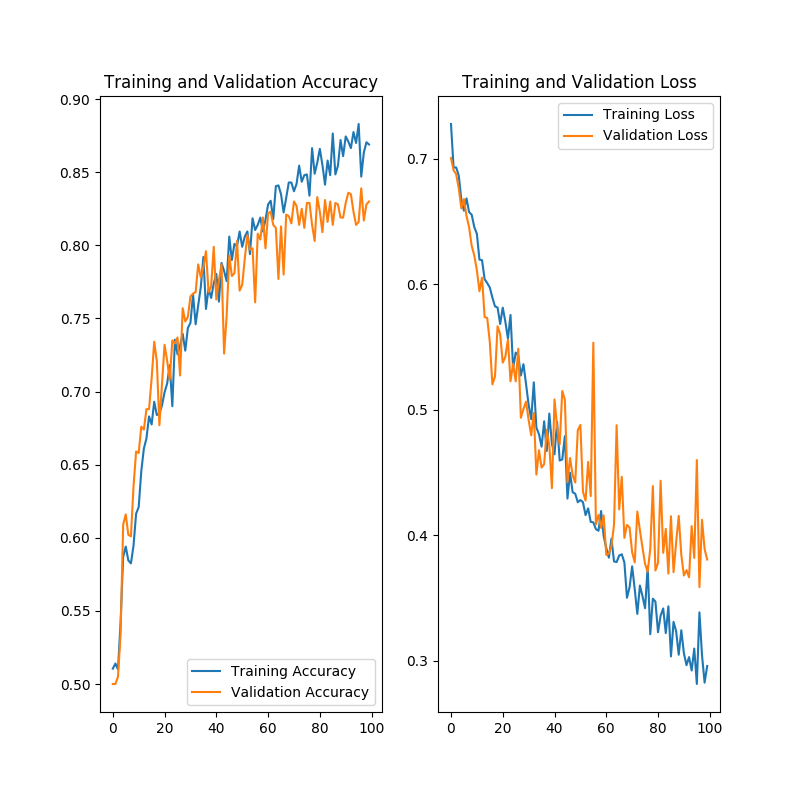
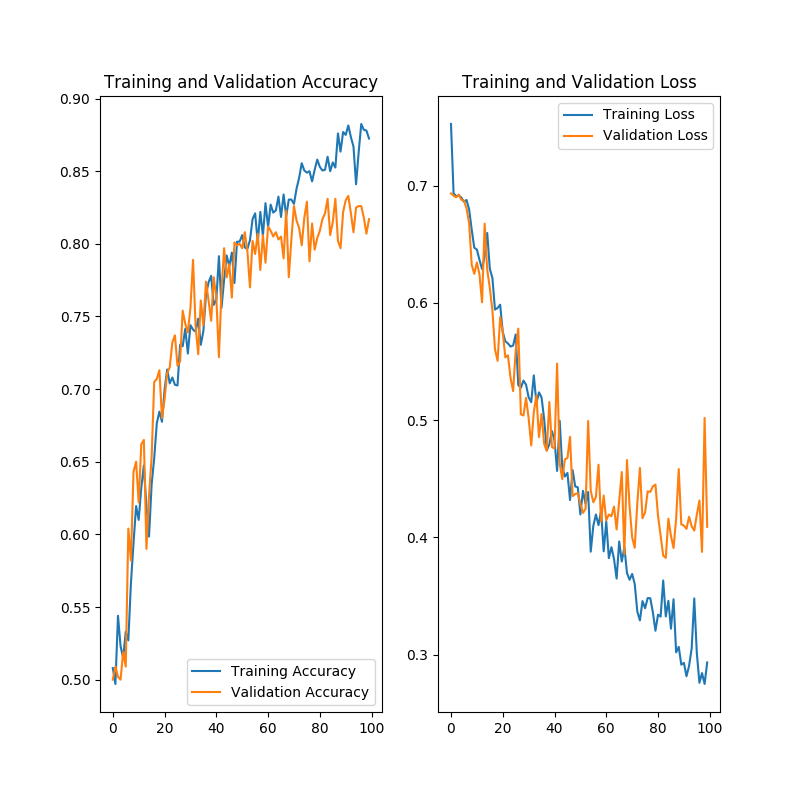
Added some stuff

diff --git a/Cnns/dogs_vs_cats.py b/Cnns/dogs_vs_cats.py
@@ -99,6 +99,27 @@ model = tf.keras.models.Sequential([
     tf.keras.layers.Dense(2, activation='softmax')
 ])
 
+"""
+model = tf.keras.models.Sequential([
+    tf.keras.layers.Conv2D(32, (3, 3), activation='relu', input_shape=(150, 150, 3)),
+    tf.keras.layers.MaxPooling2D(2, 2),
+
+    tf.keras.layers.Conv2D(64, (3, 3), activation='relu'),
+    tf.keras.layers.MaxPooling2D(2, 2),
+
+    tf.keras.layers.Conv2D(128, (3, 3), activation='relu'),
+    tf.keras.layers.MaxPooling2D(2, 2),
+
+    tf.keras.layers.Conv2D(128, (3, 3), activation='relu'),
+    tf.keras.layers.MaxPooling2D(2, 2),
+
+    tf.keras.layers.Dropout(0.5),
+    tf.keras.layers.Flatten(),
+    tf.keras.layers.Dense(512, activation='relu'),
+    tf.keras.layers.Dense(2, activation='softmax')
+])
+"""
+
 model.compile(optimizer='adam',
               loss='sparse_categorical_crossentropy',
               metrics=['accuracy'])
@@ -109,11 +130,13 @@ start = time.time()
 
 EPOCHS = 100
 history = model.fit_generator(train_data_gen, steps_per_epoch=int(np.ceil(total_train / float(BATCH_SIZE))),
-                              epochs=EPOCHS, validation_data=val_data_gen,
+                              epochs=EPOCHS, validation_data=val_data_gen, use_multiprocessing=True, workers=6,
                               validation_steps=int(np.ceil(total_val / float(BATCH_SIZE)))
                               )
 
 print("\nTime taken: ", (time.time() - start))
+
+tf.keras.models.save_model(model, "./saved_models/model.cats_vs_dogs", overwrite=True, include_optimizer=True)
 
 acc = history.history['acc']
 val_acc = history.history['val_acc']

diff --git a/Delve/squares.py b/Delve/squares.py
@@ -3,9 +3,12 @@ import tensorflow as tf
 import matplotlib.pyplot as plt
 import time, os
 import numpy as np
+from delve.kerascallback import CustomTensorBoard, SaturationLogger
 
-tf.logging.set_verbosity(tf.logging.ERROR)
-os.environ['TF_CPP_MIN_LOG_LEVEL'] = '1'
+# tf.logging.set_verbosity(tf.logging.ERROR)
+# os.environ['TF_CPP_MIN_LOG_LEVEL'] = '1'
+# import ipdb; ipbd.set_trace()
+
 
 input_num = np.linspace(-100, 100, 50000)
 np.append(np.linspace(-20, 20, 10000) + 0.3, input_num)
@@ -24,11 +27,14 @@ model = tf.keras.Sequential(
      tf.keras.layers.Dense(units=8, activation='relu'),
      tf.keras.layers.Dense(units=1, activation='linear')
      ])
+
+saturation_logger = SaturationLogger(model, input_data=input_num[:10], print_freq=1)
+
 start = time.time()
 
 model.compile(loss='mean_squared_error', optimizer=tf.keras.optimizers.Adam(0.0005))
 
-history = model.fit(input_num, square, epochs=50, verbose=True, batch_size=64)
+history = model.fit(input_num, square, epochs=50, verbose=True, batch_size=64, callbacks=[saturation_logger])
 print("Finished training the model")
 
 score = model.evaluate(validation_data, validation_squared, batch_size=64)

diff --git a/transfer_learning/cats_vs_dogs.py b/transfer_learning/cats_vs_dogs.py
@@ -85,7 +85,6 @@ label_batch = label_batch.numpy()
 result_batch = model.predict(image_batch)
 
 predicted_class_names = imagenet_labels[np.argmax(result_batch, axis=-1)]
-predicted_class_names
 
 plt.figure(figsize=(10, 9))
 for n in range(30):
@@ -153,14 +152,11 @@ print(predicted_class_names)
 print("Labels: ", label_batch)
 print("Predicted labels: ", predicted_ids)
 
-plt.figure(figsize=(10,9))
+plt.figure(figsize=(10, 9))
 for n in range(30):
-  plt.subplot(6,5,n+1)
-  plt.imshow(image_batch[n])
-  color = "blue" if predicted_ids[n] == label_batch[n] else "red"
-  plt.title(predicted_class_names[n].title(), color=color)
-  plt.axis('off')
+    plt.subplot(6, 5, n + 1)
+    plt.imshow(image_batch[n])
+    color = "blue" if predicted_ids[n] == label_batch[n] else "red"
+    plt.title(predicted_class_names[n].title(), color=color)
+    plt.axis('off')
 _ = plt.suptitle("Model predictions (blue: correct, red: incorrect)")
-
-
-

diff --git a/images_snpe/trials.py b/images_snpe/trials.py
@@ -1,0 +1,18 @@
+import cv2
+import numpy as np
+
+image1 = cv2.imread('chairs.jpg')
+image2 = cv2.imread('handicap_sign.jpg')
+image3 = cv2.imread('notice_sign.jpg')
+image4 = cv2.imread('plastic_cup.jpg')
+image5 = cv2.imread('trash_bin.jpg')
+
+# for i in range(1, 6, 1):
+#     file = "image" + str(i)
+#     filename = file + ".raw"
+
+np.ndarray.tofile(image1, 'img1.raw')
+np.ndarray.tofile(image2, 'img2.raw')
+np.ndarray.tofile(image3, 'img3.raw')
+np.ndarray.tofile(image4, 'img4.raw')
+np.ndarray.tofile(image5, 'img5.raw')
